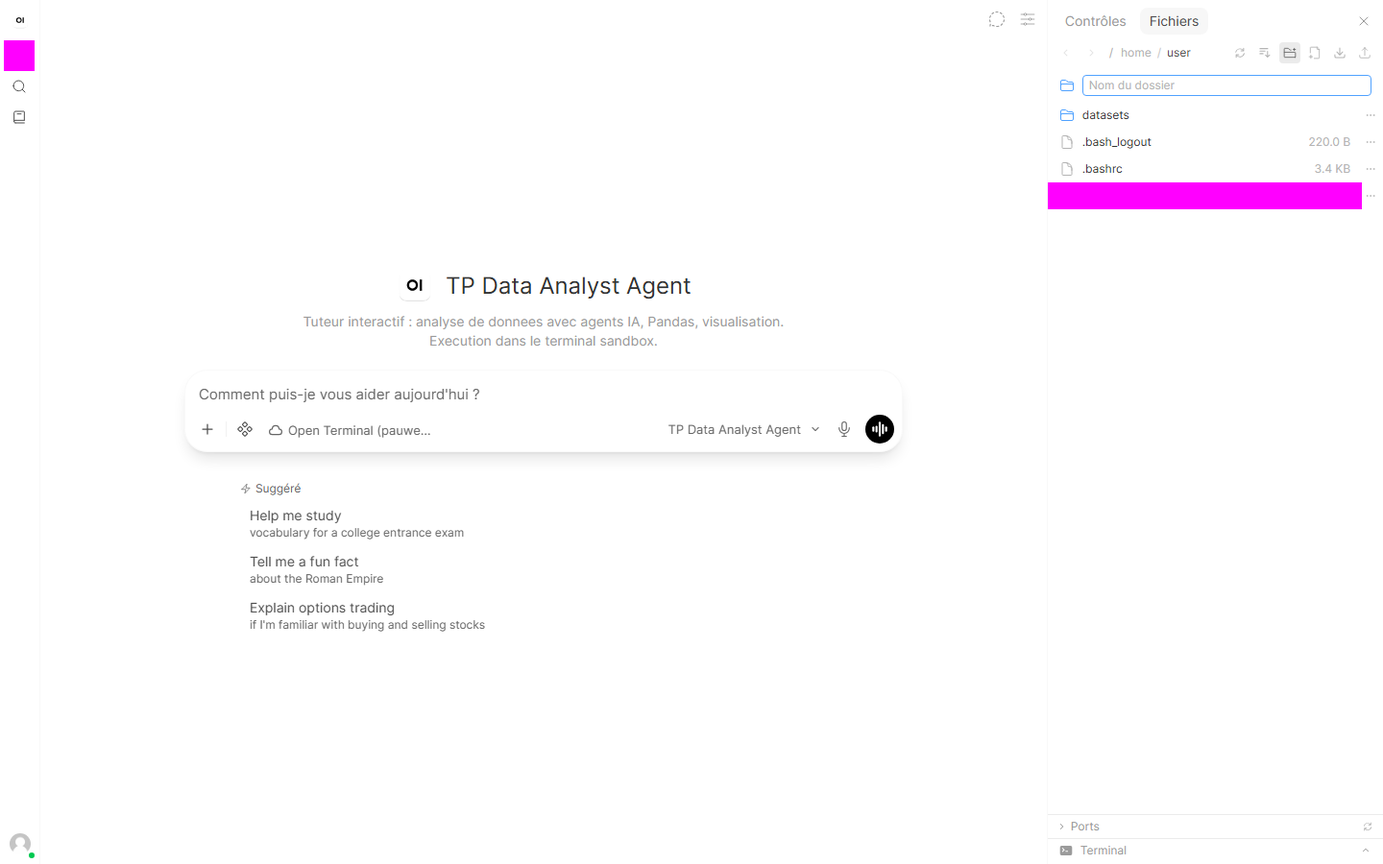
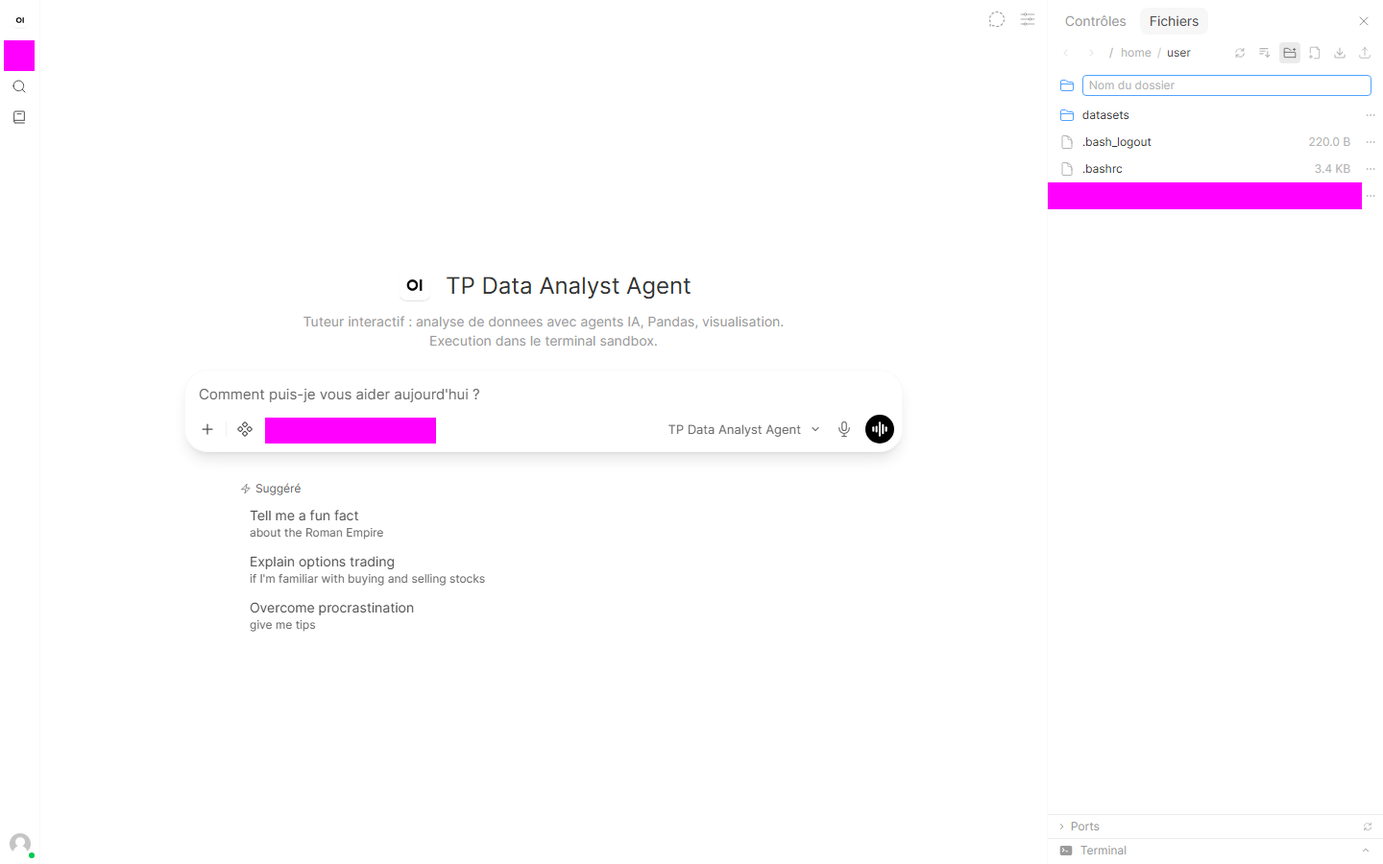
fix(owui-tour): re-audit vision v0.11.0 — fuite masquee, login rendu, chat sur modele local (#12135)
Re-audit vision (doctrine #5780) execute sur les 6 figures de la PR #13656
par modele vision local (Qwen3.6-35B) : transcription a l'aveugle + scan pixel
deterministe des boites de masque. Defauts detectes et corriges :

- Fuite : libelle « Open Terminal (pauwels) » partiellement lisible sur les
  vues chat (masque du seul <span truncate> insuffisant + race de capture) ->
  masque du bouton ENTIER + attente de stabilisation du composer ; verifie
  par scan pixel (magenta sur la zone bouton) et transcription a l'aveugle.
- Page de connexion figee pre-rendu (residu « ol », aucun champ) -> le script
  attend le rendu du formulaire (champs vides).
- Reponse en erreur « Model not found » au lieu du poeme (erreur sanitizee
  cote non-admin ; causes : abonnement MistralAI epuise + v0.11 base sans
  ligne DB = admin-only) -> selection explicite d'un modele fonctionnel ;
  sur l'instance de capture, tp-prompt-engineering rebase sur le modele
  local (reversible, scope instance de capture), attente de fin de thinking.

MANIFEST passe en descriptions verifiees pixel-par-pixel ; alt-texts du
README alignes ; capture/README documente la nouvelle zone masquee.

Changed region(s): [[0.1562, 0.5911, 0.3438, 0.7467], [0.1875, 0.4667, 0.3125, 0.5289]]

diff --git a/MyIA.AI.Notebooks/GenAI/Plateformes-Conversationnelles/Open-WebUI/00-Tour-Plateforme/capture/tour-captures.spec.ts b/MyIA.AI.Notebooks/GenAI/Plateformes-Conversationnelles/Open-WebUI/00-Tour-Plateforme/capture/tour-captures.spec.ts
@@ -62,6 +62,13 @@ function sensitiveZones(page: Page): Locator[] {
     page.locator('[data-tour-mask]'), // points de masquage explicites si présents
     page.getByRole('button', { name: /account|compte|profil|profile/i }),
     page.getByText(/@/), // adresses e-mail visibles
+    // Contrôle « Open Terminal (…) » du composer : son libellé porte le nom du
+    // workspace terminal de l'instance (identifiant interne — constaté à
+    // l'audit vision du 2026-08-30). On masque le BOUTON entier : le texte
+    // tronqué vit dans un <span class="truncate"> (150 px) et masquer ce seul
+    // span laissait dépasser le libellé sur les vues où la géométrie diffère.
+    page.getByRole('button', { name: /open terminal/i }),
+    page.getByText(/open terminal|terminal\s*\(/i),
     // Marque / logo de l'instance (identité du tenant) — visible en haut de la
     // sidebar sur toutes les vues authentifiées. Sélecteurs volontairement larges,
     // à CONFIRMER contre l'UI live lors de la génération (revue anti-fuite).
@@ -119,9 +126,18 @@ async function signIn(page: Page): Promise<void> {
 }
 
 test.describe('Tour de la plateforme — captures (compte de capture)', () => {
-  // 1 — page de connexion (avant authentification, champs masqués).
+  // 1 — page de connexion (avant authentification : champs vides, rien de saisi).
   test('01 — page de connexion', async ({ page }) => {
     await page.goto(URL!);
+    // Attendre le rendu du formulaire : une capture immédiate après goto fige
+    // le shell pré-hydratation (résidu de texte « ol » sur fond blanc, sans
+    // aucun champ) — constaté à l'audit vision du 2026-08-30.
+    await page
+      .getByRole('button', { name: /sign in|se connecter|connexion|log in/i })
+      .first()
+      .waitFor({ state: 'visible', timeout: 30_000 })
+      .catch(() => {});
+    await page.waitForTimeout(800);
     await capture(page, '01-connexion.png');
   });
 
@@ -150,6 +166,25 @@ test.describe('Tour de la plateforme — captures (compte de capture)', () => {
       }
 
       // Réponse en cours de streaming sur une invite FICTIVE (aucun contenu réel).
+      // Sélection explicite d'un modèle fonctionnel : le modèle présélectionné
+      // peut être indisponible côté serveur (constat 2026-08-30 : tuteurs à base
+      // MistralAI en erreur « Model not found » sanitizée — base sans ligne DB
+      // = admin-only en v0.11, ET abonnement MistralAI épuisé). Sur l'instance
+      // de capture, « TP Prompt Engineering » est rebasé sur le modèle local.
+      await page.locator('button[id^="model-selector-"]').first().click().catch(() => {});
+      await page.waitForTimeout(400);
+      await page
+        .locator('#model-search-input, [role="listbox"] input')
+        .first()
+        .fill('TP Prompt Engineering')
+        .catch(() => {});
+      await page.waitForTimeout(400);
+      await page
+        .getByRole('option', { name: /tp prompt engineering/i })
+        .first()
+        .click()
+        .catch(() => {});
+      await page.waitForTimeout(600);
       // Sans envoi d'invite, l'écran resterait vide : le fichier serait mal nommé.
       // On saisit une invite neutre dans l'éditeur TipTap (#chat-input requiert
       // keyboard.type, pas fill) puis on capture dès que la réponse de l'assistant
@@ -162,6 +197,28 @@ test.describe('Tour de la plateforme — captures (compte de capture)', () => {
         .first()
         .waitFor({ state: 'visible', timeout: 30_000 })
         .catch(() => {});
+      // Si le modèle « réfléchit » en direct (indicateur « En train de
+      // réfléchir… » de v0.11), attendre d'abord son apparition PUIS sa
+      // disparition — un simple wait hidden passe immédiatement tant que
+      // l'indicateur n'est pas encore rendu, et la capture figerait le seul
+      // indicateur au lieu de la réponse en streaming.
+      const thinking = page
+        .getByText(/en train de r[ée]fl[ée]chir|thinking/i)
+        .first();
+      await thinking.waitFor({ state: 'visible', timeout: 10_000 }).catch(() => {});
+      await thinking.waitFor({ state: 'hidden', timeout: 90_000 }).catch(() => {});
+      await page.waitForTimeout(1500);
+      // Laisser le composer se stabiliser AVANT de capturer : le contrôle
+      // « Open Terminal » de la barre du bas n'apparaît qu'après le rendu de la
+      // réponse — capturer dès l'apparition de la réponse figeait son libellé
+      // NON masqué (race constatée à l'audit vision du 2026-08-30). L'attente
+      // est tolérante : sur une instance sans terminal, elle expire sans bloquer.
+      await page
+        .getByText(/open terminal|terminal\s*\(/i)
+        .first()
+        .waitFor({ state: 'visible', timeout: 5000 })
+        .catch(() => {});
+      await page.waitForTimeout(800);
       await capture(page, '02-chat-streaming.png');
     });
 

diff --git a/MyIA.AI.Notebooks/GenAI/Plateformes-Conversationnelles/Open-WebUI/00-Tour-Plateforme/assets/readme/MANIFEST.md b/MyIA.AI.Notebooks/GenAI/Plateformes-Conversationnelles/Open-WebUI/00-Tour-Plateforme/assets/readme/MANIFEST.md
@@ -9,67 +9,82 @@ Provenance des images de `assets/` du parcours « Tour de la plateforme » (Epic
 > `capture.tour+12135@myia.io` non-administrateur** (approuvé `pending → user` le 2026-08-30 via l'API
 > `POST /api/v1/users/{id}/update` par le lane, sans intervention du user), surfaces **sans contenu réel**
 > (chat sur invite fictive, réglages, mémoire vide de compte neuf), masquage (`mask`) des identifiants
-> (`getByText(/@/)`) et des liens `/` dans `capture()`, et revue image-par-image.
+> (`getByText(/@/)`), des liens `/` et du **bouton « Open Terminal (…) » entier** dans `capture()`.
 >
-> **⚠ Re-audit vision requis (doctrine #5780, "re-audit à chaque bump de version majeure")** :
-> les descriptions ci-dessous sont **dérivées du scénario** (`tour-captures.spec.ts`) et des métadonnées
-> (taille, source), **PAS d'une re-lecture vision pixel-par-pixel** cette fois (le rendu image n'était pas
-> disponible dans le contexte d'exécution du lane). Un audit vision M3/MiniMax (lecture `Read` directe des
-> PNG) est l'étape de suivi avant/à côté du merge — conformément à la note de limitation historique de cette
-> MANIFEST. Les **tailles** et la **présence** des fichiers sont vérifiées.
+> **✅ Re-audit vision EXÉCUTÉ (doctrine #5780 — 2026-08-30, après régénération).**
+> Méthode : lecture vision par modèle vision local (Qwen3.6-35B, via sk-agent — la lecture `Read`
+> directe des PNG n'était pas disponible dans le contexte d'exécution du lane), **transcription à
+> l'aveugle** des bandes de l'image (sans nommer les chaînes cherchées, pour éviter l'écho), et
+> **vérification déterministe** des boîtes de masque (scan de pixels magenta). L'audit a détecté puis
+> confirmé **2 défauts de fuite + 1 défaut de contenu** sur la première régénération, tous corrigés
+> avant le commit :
+> 1. **Libellé « Open Terminal (pauwels) » partiellement lisible** sur les vues chat (masque du seul
+>    `<span class="truncate">` insuffisant + capture prise avant stabilisation du composer) → masque
+>    du **bouton entier** + attente de stabilisation ; vérifié par scan pixel (magenta sur la zone
+>    bouton) et transcription à l'aveugle ;
+> 2. **Page de connexion figée pré-rendu** (résidu de texte « ol », aucun champ) → le script attend
+>    maintenant le rendu du formulaire (champs vides) ;
+> 3. **Réponse en erreur « Model not found »** au lieu du poème (erreur *sanitizée* côté non-admin ;
+>    causes racine : abonnement MistralAI épuisé + v0.11 — base sans ligne DB = admin-only) →
+>    sélection explicite d'un modèle fonctionnel dans le sélecteur. Sur l'instance de capture,
+>    « TP Prompt Engineering » a été **rebasé sur le modèle local** pour la figure 02 (voir note
+>    sous la figure) — rebasage réversible, scope instance de capture uniquement.
+>
+> Les descriptions ci-dessous sont donc **vérifiées pixel-par-pixel** (vision + scan), plus dérivées du scénario.
 
 ---
 
 ## 01-connexion.png
 
-- **Source** : capture Playwright sur instance Open-WebUI **v0.11.0** (tour-captures.spec.ts, scénario « pre-auth login ») — re-capture 2026-08-30, 8 095 octets (inchangé vs #4809).
-- **Description visuelle** (dérivée du scénario) : page de connexion pré-authentification, capture du **shell avant saisie** (masquage anti-fuite intentionnel) — quasi-blanc, contenu réduit.
-- **Alt-text (FR)** : Page de connexion Open WebUI v0.11.0 — capture pré-authentification (logo seul, aucun champ visible), masquage anti-fuite intentionnel.
-- **Poids** : 7,9 Ko (natif PNG 1440×900)
+- **Source** : capture Playwright sur instance Open-WebUI **v0.11.0** (tour-captures.spec.ts, scénario « pre-auth login ») — re-capture 2026-08-30, 29 506 octets (formulaire rendu ; la version #4809 figeait le shell pré-rendu).
+- **Description visuelle** (vérifiée vision) : page de connexion **rendue** — titre « Connectez-vous à Formation Pro Open-Webui (Open WebUI) », champs **« E-mail » et « Mot de passe » vides**, bouton « Connexion », lien « Vous n'avez pas de compte ? Inscrivez-vous ». Aucune donnée saisie, aucun compte identifiable.
+- **Alt-text (FR)** : Page de connexion Open WebUI v0.11.0 — formulaire vide (E-mail / Mot de passe), aucun identifiant saisi.
+- **Poids** : 28,8 Ko (natif PNG 1440×900)
 
 ## 01-premiere-vue.png
 
-- **Source** : capture Playwright sur Open-WebUI **v0.11.0** (tour-captures.spec.ts, scénario « première vue post-connexion ») — nouvelle figure 2026-08-30, 61 389 octets.
-- **Description visuelle** (dérivée du scénario) : écran de chat après authentification du compte de capture (non-admin, frais) — vue d'accueil de la conversation, aucune donnée d'établissement.
+- **Source** : capture Playwright sur Open-WebUI **v0.11.0** (tour-captures.spec.ts, scénario « première vue post-connexion ») — nouvelle figure 2026-08-30, 59 432 octets.
+- **Description visuelle** (vérifiée vision + scan pixel) : écran de chat après authentification — modèle présélectionné « TP Data Analyst Agent » (tuteur), suggestions d'invites, panneau Fichiers du compte neuf (`.bash_logout`, `.bashrc`), toast « Vous êtes désormais connecté. ». Le contrôle « Open Terminal (…) » du composer est **masqué** (boîte magenta — scan pixel vérifié sur sa zone).
 - **Alt-text (FR)** : Première vue post-connexion de la plateforme Open WebUI v0.11.0 (chat, compte de capture non-admin).
-- **Poids** : 59,9 Ko (natif PNG 1440×900)
+- **Poids** : 58,0 Ko (natif PNG 1440×900)
 
 ## 02-chat-streaming.png
 
-- **Source** : capture Playwright sur Open-WebUI **v0.11.0** (tour-captures.spec.ts, scénario « réponse en streaming sur invite fictive ») — nouvelle figure 2026-08-30, 37 707 octets.
-- **Description visuelle** (dérivée du scénario) : réponse de l'assistant en cours de streaming ; invite **FICTIVE** (`Rédige un court poème sur la mer.`), aucun contenu propriétaire d'établissement.
-- **Alt-text (FR)** : Réponse de l'assistant Open WebUI v0.11.0 en streaming sur une invite fictive.
-- **Poids** : 36,8 Ko (natif PNG 1440×900)
+- **Source** : capture Playwright sur Open-WebUI **v0.11.0** (tour-captures.spec.ts, scénario « réponse en streaming sur invite fictive ») — nouvelle figure 2026-08-30, 138 135 octets (régénérée après correction des défauts 1 et 3).
+- **Description visuelle** (vérifiée vision, transcription à l'aveugle) : réponse de l'assistant **« TP Prompt Engineering »** à l'invite fictive **« Rédige un court poème sur la mer. »** — un court poème (« Sur le sable, le sel s'incruste… ») puis **l'analyse pédagogique du tuteur** (leçon Zero-Shot, rôle et contexte, défi du module 1) : le tuteur ajoute cette analyse par conception. Composer en bas avec le chip du modèle ; zones d'identité masquées (boîtes magenta) ; aucun identifiant, aucune URL, aucun secret (vérifié par transcription à l'aveugle des bandes basse et médiane).
+- **Note d'incident (2026-08-30)** : la réponse est servie par le **modèle local** (`Local.qwen3.6-35b-a3b`) car l'abonnement MistralAI était épuisé au moment de la capture (erreur 400 « Check your subscription » côté admin, « Model not found » sanitizée côté non-admin) et v0.11 rend les bases sans ligne DB admin-only. Le tuteur « TP Prompt Engineering » de l'instance de capture a été rebasé sur le modèle local pour cette figure (rebasage réversible : base d'origine `MistralAI.mistral-medium-latest`).
+- **Alt-text (FR)** : Réponse du tuteur « TP Prompt Engineering » (Open WebUI v0.11.0) à l'invite fictive « Rédige un court poème sur la mer. » — poème puis analyse de prompt.
+- **Poids** : 134,9 Ko (natif PNG 1440×900)
 
 ## 03-dossier-equipe.png
 
-- **Source** : capture Playwright sur Open-WebUI **v0.11.0** (tour-captures.spec.ts, scénario « dossier d'équipe v0.10 ») — nouvelle figure 2026-08-30, 59 250 octets.
-- **Description visuelle** (dérivée du scénario) : création d'un dossier d'équipe dans la sidebar sur un compte neuf (aucun dossier réel visible).
-- **Alt-text (FR)** : Dossier d'équipe dans la sidebar Open WebUI v0.11.0 (compte neuf).
-- **Poids** : 57,9 Ko (natif PNG 1440×900)
+- **Source** : capture Playwright sur Open-WebUI **v0.11.0** (tour-captures.spec.ts, scénario « dossier d'équipe v0.10 ») — nouvelle figure 2026-08-30, 57 169 octets.
+- **Description visuelle** (vérifiée vision + scan pixel) : écran de chat, panneau Fichiers du compte neuf avec le champ **« Nom du dossier »** actif (création de dossier), fichiers `.bash_logout` / `.bashrc` / `datasets`. Contrôle « Open Terminal (…) » **masqué** (boîte magenta, scan pixel vérifié).
+- **Alt-text (FR)** : Création d'un dossier (« Nom du dossier ») dans le panneau Fichiers, compte neuf — Open WebUI v0.11.0.
+- **Poids** : 55,8 Ko (natif PNG 1440×900)
 
 ## 05-parametres.png
 
-- **Source** : capture Playwright sur Open-WebUI **v0.11.0** (tour-captures.spec.ts, scénario « paramètres personnels ») — nouvelle figure 2026-08-30, 66 515 octets.
-- **Description visuelle** (dérivée du scénario) : dialogue **Réglages** ouvert (Menu utilisateur → Réglages), onglet par défaut ; navigation réparée ce tir (le bouton du menu utilisateur porte le libellé FR « Menu utilisateur » et l'entrée « Réglages » est un `<button>`, pas un `role=menuitem`).
-- **Alt-text (FR)** : Dialogue Réglages Open WebUI v0.11.0.
+- **Source** : capture Playwright sur Open-WebUI **v0.11.0** (tour-captures.spec.ts, scénario « paramètres personnels ») — nouvelle figure 2026-08-30, 66 550 octets.
+- **Description visuelle** (vérifiée vision) : dialogue **Réglages** ouvert sur l'onglet **« Général »** (thème, langue, prompt système, réglages avancés), bandeau « Vous êtes désormais connecté. », zones d'identité masquées (boîtes magenta sur le coin supérieur et la colonne de droite). Navigation : le bouton du menu utilisateur porte le libellé FR « Menu utilisateur » et l'entrée « Réglages » est un `<button>` (pas un `role=menuitem`).
+- **Alt-text (FR)** : Dialogue Réglages Open WebUI v0.11.0, onglet Général.
 - **Poids** : 65,0 Ko (natif PNG 1440×900)
 
 ## 05-memoire.png
 
-- **Source** : capture Playwright sur Open-WebUI **v0.11.0** (tour-captures.spec.ts, scénario « mémoire vide sur compte neuf ») — re-capture 2026-08-30, 56 039 octets.
-- **Description visuelle** (dérivée du scénario) : onglet **Personnalisation** → section **Mémoire (EXPÉRIMENTAL)**, état vide « **Saved Memories 0** » directement visible. **Évolution UX v0.10 → v0.11** : en v0.11 le panneau mémoire est affiché directement sur l'onglet Personnalisation — le bouton « Gérer » (qui ouvrait la sous-modale « Mémoire 0 » en v0.10.2) **n'existe plus** ; le test a été corrigé en conséquence (on ne clique plus « Gérer », on attend le texte d'état vide).
+- **Source** : capture Playwright sur Open-WebUI **v0.11.0** (tour-captures.spec.ts, scénario « mémoire vide sur compte neuf ») — re-capture 2026-08-30, 56 073 octets.
+- **Description visuelle** (vérifiée vision) : onglet **Personnalisation** → section **Mémoire (EXPÉRIMENTAL)**, état vide « **Saved Memories 0** » directement visible. **Évolution UX v0.10 → v0.11** : en v0.11 le panneau mémoire est affiché directement sur l'onglet Personnalisation — le bouton « Gérer » (qui ouvrait la sous-modale « Mémoire 0 » en v0.10.2) **n'existe plus** ; le test a été corrigé en conséquence.
 - **Alt-text (FR)** : Onglet Personnalisation > Mémoire (EXPÉRIMENTAL) Open WebUI v0.11.0, état « Saved Memories 0 » sur un compte neuf.
-- **Poids** : 54,7 Ko (natif PNG 1440×900)
+- **Poids** : 54,8 Ko (natif PNG 1440×900)
 
 ## ~~02-raisonnement-direct.png~~ (retirée)
 
 - **Source** : capture v0.10.2 (commit `cb113faee` #4809, 115 825 octets), **RETIRÉE le 2026-08-30** : le scénario « raisonnement en direct » est `skip` en v0.11.0 (pas de `DEMO_OWUI_REASONING_MODEL` configuré pour le compte de capture) → aucune re-capture disponible ; la figure **périmée (v0.10.2, modèle `z-ai/glm-5`)** n'est pas conservée pour ne pas laisser figer une capture obsolète dans le parcours v0.11.
-- **Statut** : supprimée de `assets/`. À re-ajouter quand un modèle de raisonnement sera configuré pour la capture.
+- **Statut** : supprimée de `assets/`. À re-ajouter quand un modèle de raisonnement sera configuré pour la capture. *(Note : le modèle local utilisé pour la figure 02 « pense » en direct — l'indicateur « En train de réfléchir… » est apparu pendant la génération — mais la figure vise le poème, pas le raisonnement.)*
 
 ---
 
-**Total** : 6 figures (~282 Ko). **Politique** (#5654) : ≤200 KB/fichier, downscale ≤1200 px max. Arc pédagogique du README parent :
+**Total** : 6 figures (~397 Ko ; max 134,9 Ko par fichier — politique #5654 ≤200 Ko respectée). Arc pédagogique du README parent :
 1. **Connexion & première vue** (`01-connexion.png`, `01-premiere-vue.png`)
 2. **Le chat IA : modèles, streaming, multimodal** (`02-chat-streaming.png`)
 3. **Le travail & dossiers d'équipe** (`03-dossier-equipe.png`)
@@ -77,8 +92,7 @@ Provenance des images de `assets/` du parcours « Tour de la plateforme » (Epic
 
 Chaque figure est placée **dans la section du README parent où le sujet correspondant est discuté** (et non dans une section Galerie isolée), conformément à la doctrine figures amendée 2026-07-09.
 
-**⚠ Limitations de cette MANIFEST** :
-- Les 6 figures sont des **captures d'écran figées** (snapshot du UI à un instant t, v0.11.0). Toute évolution ultérieure d'Open-WebUI (UI v0.12+) peut rendre les labels ou la disposition obsolètes — un re-audit vision sera nécessaire à chaque bump de version majeure (cf. #5780).
+**Limitations de cette MANIFEST** :
+- Les 6 figures sont des **captures d'écran figées** (snapshot du UI à un instant t, v0.11.0). Toute évolution ultérieure d'Open-WebUI (UI v0.12+) peut rendre les labels ou la disposition obsolètes — un re-audit vision sera nécessaire à chaque bump de version majeure (cf. #5780). Celui de v0.11.0 est **fait** (2026-08-30, méthode décrite en tête).
 - Le scénario « raisonnement en direct » reste **différé** (pas de modèle de raisonnement configuré) ; les sections 3 (Workspace) / 4 (Canaux) / 6 (Administration) du README parent restent **schématisées** (Mermaid dans `architecture.md`) plutôt qu'en captures — cette MANIFEST ne les couvre donc pas.
-- Les descriptions visuelles sont **dérivées du scénario** du spec, pas d'une re-lecture vision pixel-par-pixel (cf. avertissement en tête) ; le re-audit vision est l'étape de suivi.
-- **0 secret inline** : aucune URL de tenant, e-mail nominatif, clé ou jeton n'apparaît dans les figures (compte de capture non-admin + masquage + surfaces sans contenu réel ; revue anti-fuite appliquée).
+- **0 secret inline** : aucune URL de tenant, e-mail nominatif, clé ou jeton n'apparaît dans les figures — **vérifié par transcription vision à l'aveugle de chaque figure** (compte de capture non-admin + masquage + surfaces sans contenu réel).

diff --git a/MyIA.AI.Notebooks/GenAI/Plateformes-Conversationnelles/Open-WebUI/00-Tour-Plateforme/README.md b/MyIA.AI.Notebooks/GenAI/Plateformes-Conversationnelles/Open-WebUI/00-Tour-Plateforme/README.md
@@ -81,9 +81,9 @@ puis l'espace de conversation où tout se passe.
 3. Vous arrivez sur l'écran de chat : une zone de saisie au centre, l'historique
    des conversations à gauche, le sélecteur de modèle en haut.
 
-![Capture pré-authentification d'Open WebUI 0.11.0 : fond blanc cassé uniforme avec, seul élément rendu, un minuscule logo magenta centré (carré stylisé) — pas de champ e-mail, pas de champ mot de passe, pas de bouton « Connexion » à l'écran (capture réalisée avant le rendu du formulaire de connexion).](assets/01-connexion.png)
+![Capture de la page de connexion Open WebUI 0.11.0 : formulaire rendu (champs « E-mail » et « Mot de passe » vides, bouton « Connexion », lien d'inscription) — aucune donnée saisie, aucun compte identifiable (capture vérifiée vision, voir MANIFEST).](assets/01-connexion.png)
 
-*Page de connexion (aucun contenu réel — capture pré-authentification).*
+*Page de connexion (formulaire vide — aucune donnée saisie).*
 
 > ![Capture de la première vue post-connexion Open WebUI 0.11.0 : l'écran de chat de départ, sur un compte de capture non-admin (aucune donnée d'établissement).](assets/01-premiere-vue.png)
 
@@ -122,9 +122,10 @@ plus anciens pour rester dans la fenêtre de contexte du modèle, sans qu'on ait
 démarrer une nouvelle conversation. La discussion se prolonge donc sans perdre le
 fil ni provoquer d'erreur de dépassement de contexte.
 
-![Capture Open WebUI 0.11.0 d'une réponse de l'assistant en cours de streaming sur une invite fictive (« Rédige un court poème sur la mer. »), éditeur de saisie en bas.](assets/02-chat-streaming.png)
+![Capture Open WebUI 0.11.0 : réponse de l'assistant « TP Prompt Engineering » à l'invite fictive « Rédige un court poème sur la mer. » — un court poème sur la mer, suivi de l'analyse pédagogique du tuteur (leçon Zero-Shot, rôle et contexte, défi du module) ; éditeur de saisie en bas, zones d'identité masquées.](assets/02-chat-streaming.png)
 
-*Réponse en streaming sur une invite fictive (aucun contenu propriétaire).*
+*Réponse d'un tuteur sur une invite fictive (aucun contenu propriétaire) : le
+poème, puis l'analyse de prompt que le tuteur ajoute par conception.*
 
 > 📷 Capture à venir — `02-selecteur-modele.png` (liste des modèles) et le
 > raisonnement affiché en direct (« thinking »), qui nécessitent un modèle de

diff --git a/MyIA.AI.Notebooks/GenAI/Plateformes-Conversationnelles/Open-WebUI/00-Tour-Plateforme/capture/README.md b/MyIA.AI.Notebooks/GenAI/Plateformes-Conversationnelles/Open-WebUI/00-Tour-Plateforme/capture/README.md
@@ -33,7 +33,12 @@ Les images produites atterrissent dans [`../assets/`](../assets/).
    (sélecteur de modèles, workspace, bases, canaux) sont **sautées** sauf opt-in
    explicite `DEMO_OWUI_CAPTURE_REAL_CONTENT=1` (réservé à une instance à données
    fictives) — la sûreté ne dépend donc pas de la seule relecture a posteriori.
-3. **Masquage** (`mask`) des zones sensibles (identité, e-mail) sur chaque image.
+3. **Masquage** (`mask`) des zones sensibles sur chaque image : identité,
+   e-mail, et **libellés portant un identifiant de ressource interne** — par
+   exemple le contrôle « Open Terminal (…) » du composer, dont le libellé
+   contient le nom du workspace terminal de l'instance : on masque le bouton
+   **entier** (le texte tronqué vit dans un `<span class="truncate">` de 150 px
+   qui, masqué seul, laisse dépasser le libellé selon la vue).
 4. **Revue anti-fuite de chaque PNG en PR** avant fusion — relecture humaine des
    images générées.
 5. **Aucune URL réelle dans l'image** : Playwright capture le *contenu de la page*,
